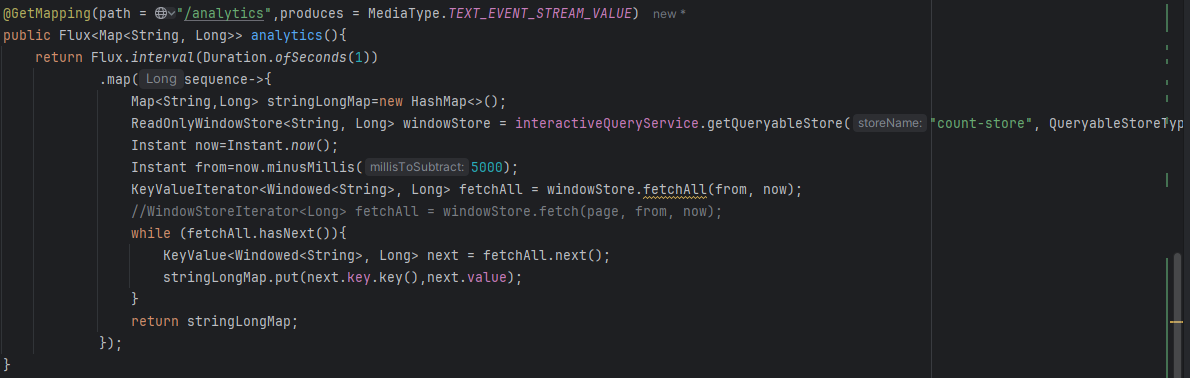
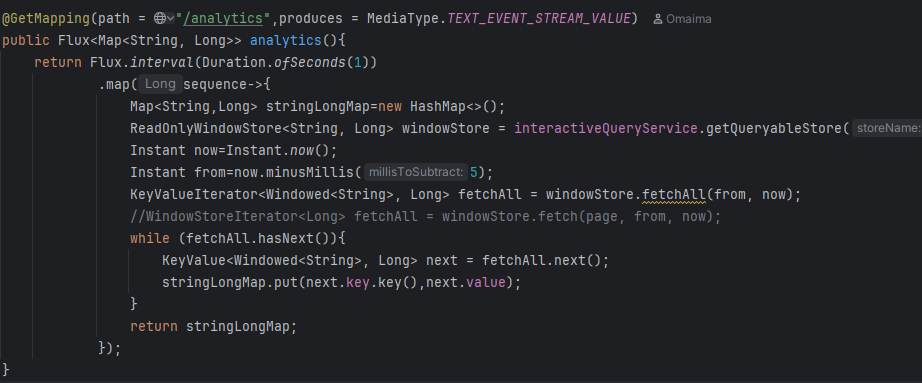
feat: add real-time analytics endpoint using Kafka Streams and SSE fixing bug

diff --git a/src/main/java/net/omaima/kafkaspringcloudstream/controller/PageEventController.java b/src/main/java/net/omaima/kafkaspringcloudstream/controller/PageEventController.java
@@ -45,7 +45,7 @@ public class PageEventController {
                     Map<String,Long> stringLongMap=new HashMap<>();
                     ReadOnlyWindowStore<String, Long> windowStore = interactiveQueryService.getQueryableStore("count-store", QueryableStoreTypes.windowStore());
                     Instant now=Instant.now();
-                    Instant from=now.minusMillis(5000);
+                    Instant from = now.minusSeconds(5);
                     KeyValueIterator<Windowed<String>, Long> fetchAll = windowStore.fetchAll(from, now);
                     //WindowStoreIterator<Long> fetchAll = windowStore.fetch(page, from, now);
                     while (fetchAll.hasNext()){

diff --git a/src/main/java/net/omaima/kafkaspringcloudstream/handler/PageEventHandler.java b/src/main/java/net/omaima/kafkaspringcloudstream/handler/PageEventHandler.java
@@ -51,7 +51,7 @@ public class PageEventHandler {
                         .map((k,v)->new KeyValue<>(v.name(), v.duration()))
                         .groupByKey(Grouped.with(Serdes.String(), Serdes.Long()))
                         .windowedBy(TimeWindows.ofSizeAndGrace(
-                                Duration.ofSeconds(5000),
+                                Duration.ofSeconds(5),
                                 Duration.ofSeconds(0)
                         ))
                         .count(Materialized.as("count-store"))

diff --git a/README.MD b/README.MD
@@ -42,7 +42,7 @@ Ajout d'un traitement
 ![img_9.png](img_9.png)
 
 Récupérer périodiquement les statistiques de consommation des événements Kafka Streams et de les envoyer au client en temps réel via SSE
-
-![img_11.png](img_11.png)
+avec la methode flux 
 
 ![img_10.png](img_10.png)
+
